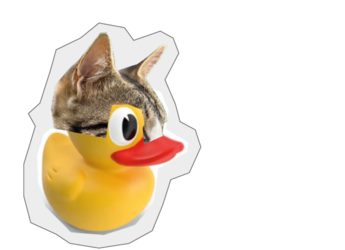
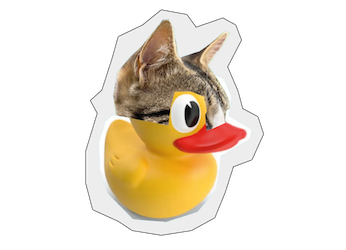
fix asset sizes

diff --git a/src/scenes/MainMenu.ts b/src/scenes/MainMenu.ts
@@ -55,32 +55,28 @@ export class MainMenu extends Scene {
     })
 
     this.sdb = this.add.sprite(
-      Number(this.game.config.width) / 2 - 284,
+      Number(this.game.config.width) / 2 - 250,
       Number(this.game.config.height) - 470,
-      'baignoires', 0
+      'baignoires',
+      0
     );
     this.cabane = this.add.sprite(
-      Number(this.game.config.width) / 2 + 284,
+      Number(this.game.config.width) / 2 + 250,
       Number(this.game.config.height) - 470,
-      'baignoires', 1
+      'baignoires',
+      1
     );
 
     this.realduck = this.add.image(
-      Number(this.game.config.width) / 8 + 700,
-      Number(this.game.config.height) - 750,
+      Number(this.game.config.width) / 2 - 200,
+      Number(this.game.config.height) - 700,
       'realduck'
     );
 
     this.plasticduck = this.add.image(
-      Number(this.game.config.width) / 8 + 1100,
-      Number(this.game.config.height) - 750,
+      Number(this.game.config.width) / 2 + 200,
+      Number(this.game.config.height) - 700,
       'plasticduck'
     );
-
-    /*
-        this.input.once('pointerdown', () => {
-          this.scene.start('Game');
-        });
-    */
   }
 }

diff --git a/src/scenes/Boot.ts b/src/scenes/Boot.ts
@@ -20,7 +20,7 @@ export class Boot extends Scene {
     this.load.spritesheet(
       'baignoires',
       'assets/baignoires.png',
-      {frameWidth: 300, frameHeight: 205}
+      {frameWidth: 360, frameHeight: 250}
     );
 
   }
